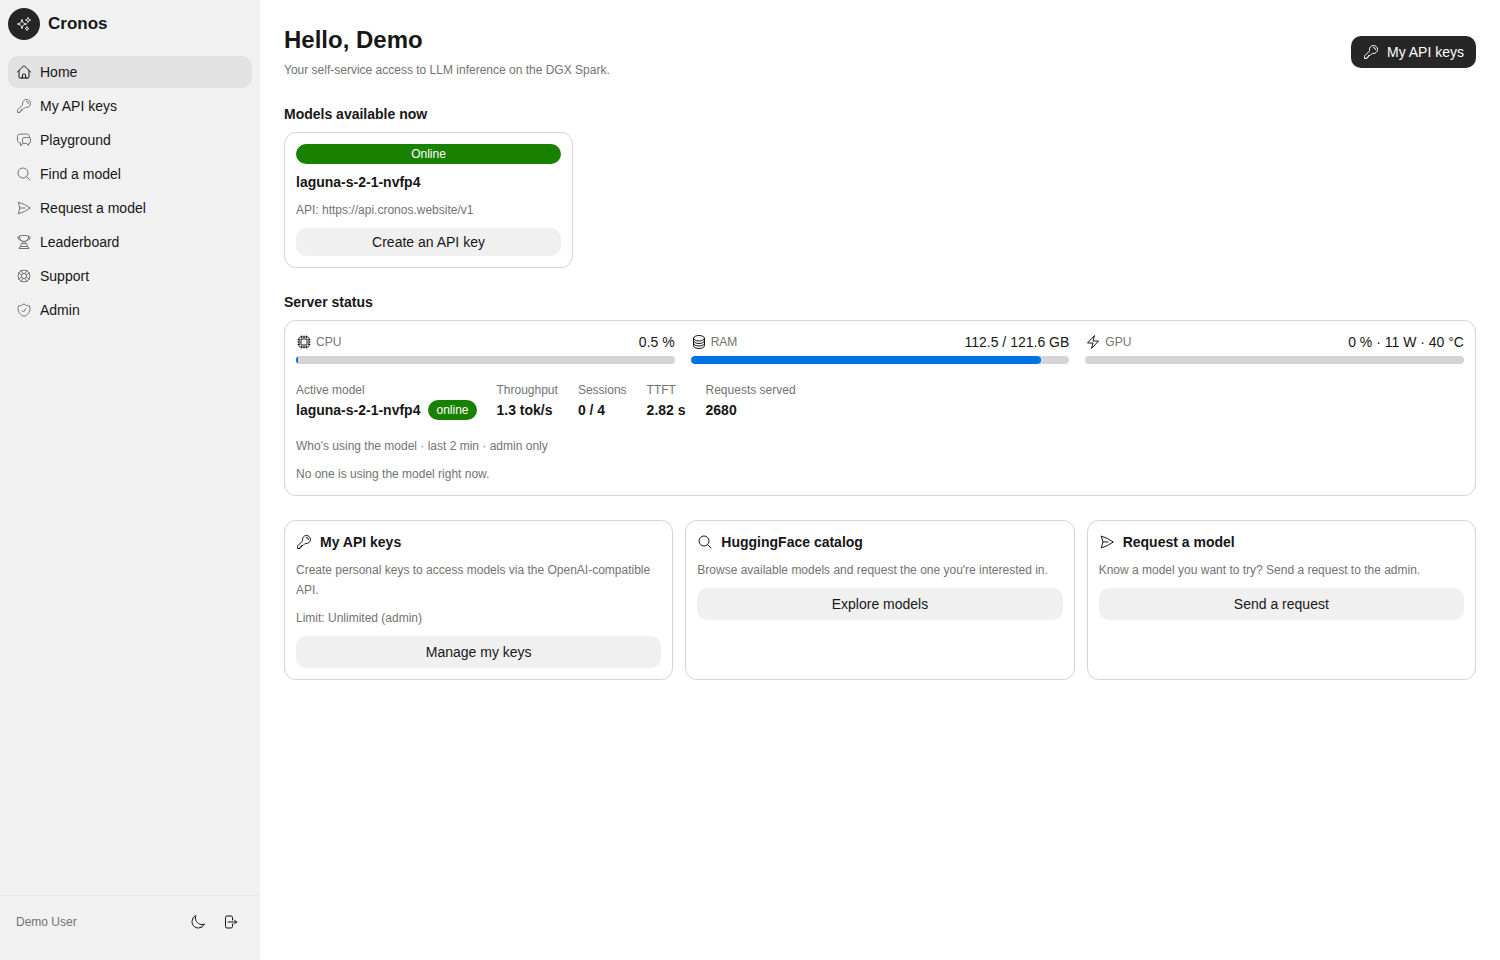
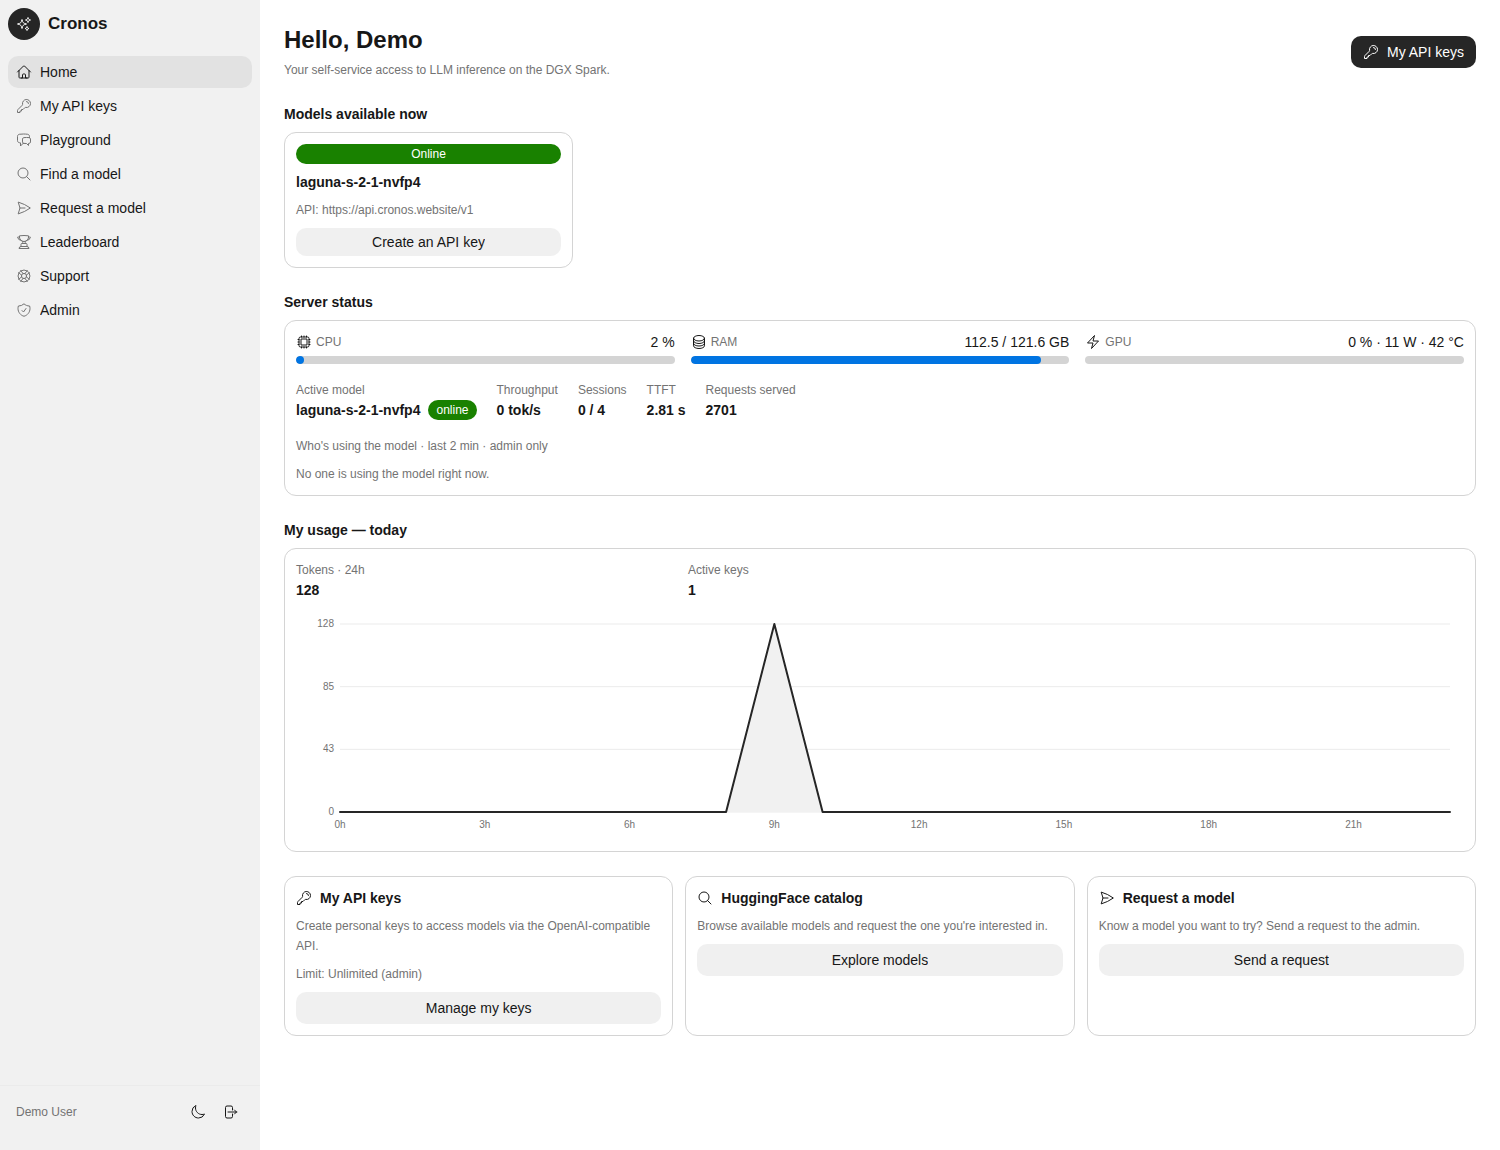
Add Find a model and Admin screenshots, refresh dashboard.png
Both pages were missing from the README's screenshot set; the
dashboard shot is retaken for a fresher server-status snapshot.

diff --git a/README.md b/README.md
@@ -192,6 +192,10 @@ env vars — key and endpoint pre-filled.
 
 ![My API keys — budget, keys and integration snippets](assets/keys.png)
 
+| Find a model — Hugging Face catalog search | Admin — models, quotas and requests |
+|---|---|
+| ![Find a model](assets/search.png) | ![Admin](assets/admin.png) |
+
 ---
 
 ## Operations
